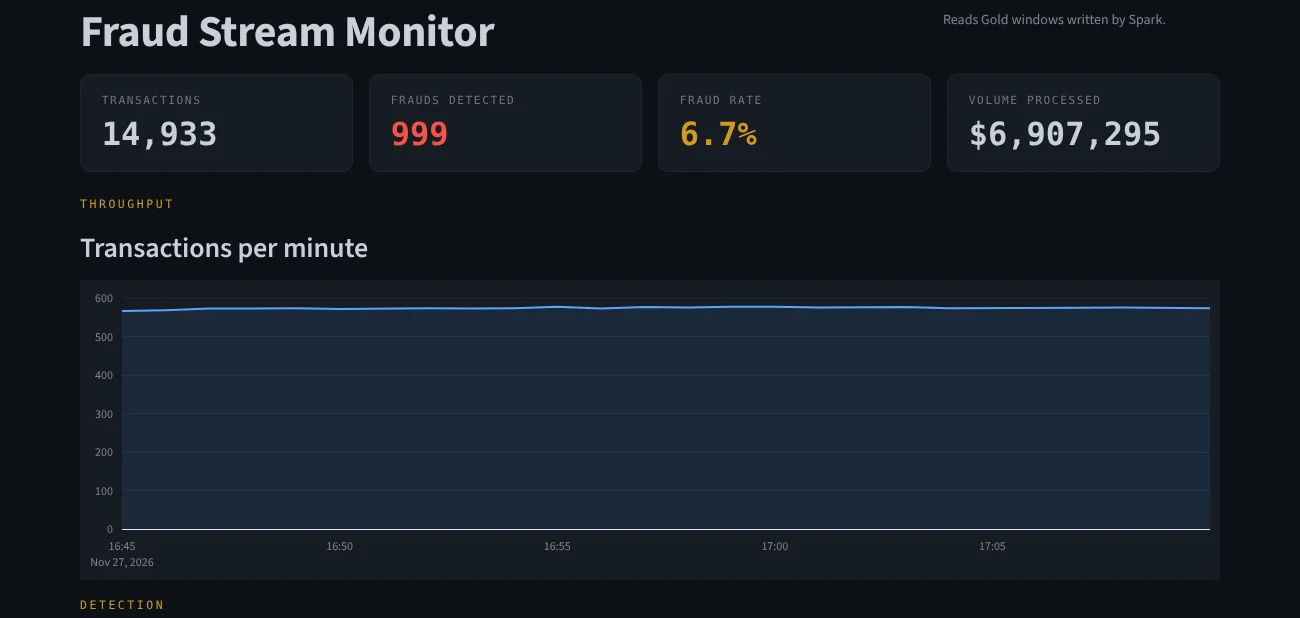
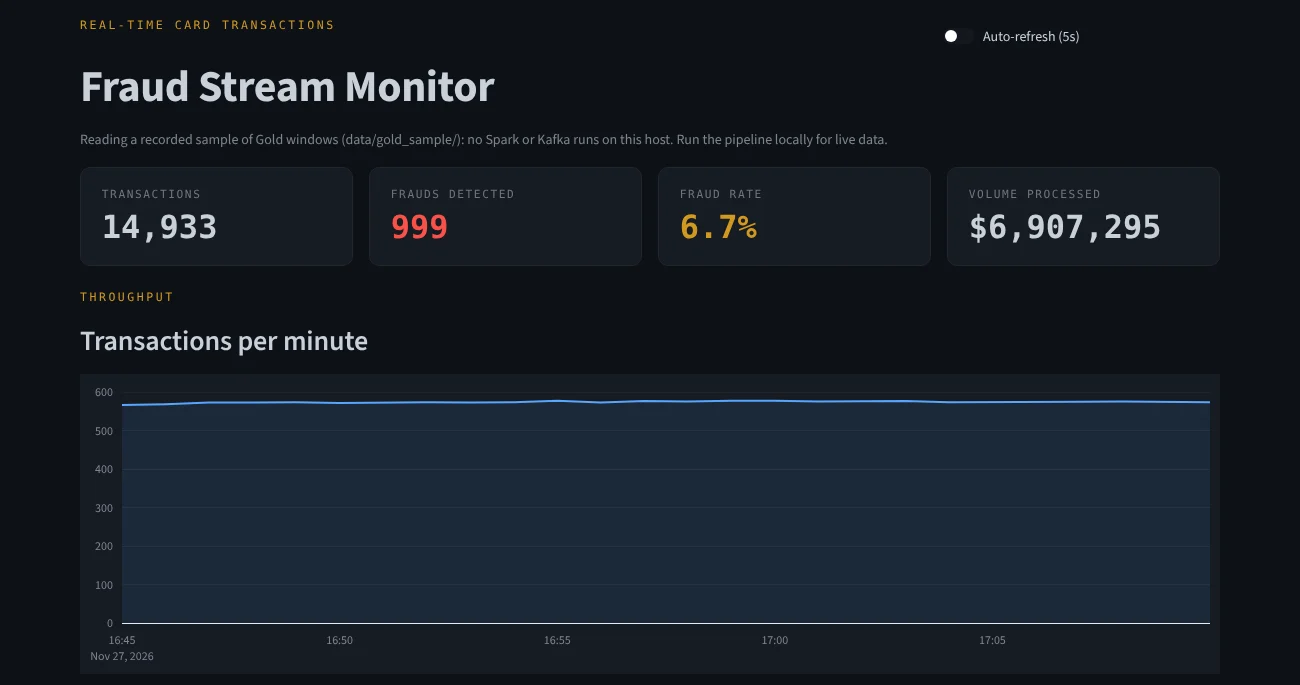
SEC MCP agent: 18 of 22 in the seventh run (was the sixth run's 17), 64 tests; streaming image with the sample caption
Claude-Session: https://claude.ai/code/session_01NPRom6U4n9MTC5L7n1c1Jp

diff --git a/projects_pt.py b/projects_pt.py
@@ -33,7 +33,7 @@ PT = {
     "sec-mcp-agent": {
         "name": "Agente MCP sobre a SEC",
         "line": "Servidores MCP sobre relatórios da SEC e um modelo de fraude, e um agente cujas citações são conferidas na fonte.",
-        "headline": ("17 de 22", "perguntas de avaliação aprovadas, partindo de 7 ao longo de seis rodadas medidas"),
+        "headline": ("18 de 22", "perguntas de avaliação aprovadas na sétima rodada medida, partindo de 7 na primeira"),
         "problem": "Respostas sobre relatórios financeiros só têm valor se cada afirmação puder ser rastreada até a fonte, "
         "e modelos pequenos inventam fontes que parecem reais. Além disso, ferramentas costumam ficar presas a um único "
         "agente, e nada mais consegue usá-las.",
@@ -42,16 +42,16 @@ PT = {
         "ser devolvida. Os mesmos servidores funcionam no Claude Desktop.",
         "how": [
             "Uma citação só passa se o trecho citado estiver no documento recuperado.",
-            "Seis rodadas de avaliação num runner de CPU, com cada falha rastreada e corrigida no agente ou nas ferramentas.",
+            "Sete rodadas de avaliação num runner de CPU, com cada falha rastreada e corrigida no agente ou nas ferramentas; a avaliação roda de novo toda semana.",
             "A ferramenta de fraude reaproveita o modelo XGBoost do projeto de fraude em tempo real, num commit fixado.",
         ],
         "results": [
-            ("17 de 22", "perguntas de avaliação aprovadas (7 na primeira rodada)"),
-            ("62", "testes, incluindo os servidores acessados pelo cliente MCP"),
-            ("6", "rodadas de avaliação medidas, com cada falha rastreada e corrigida"),
+            ("18 de 22", "perguntas de avaliação aprovadas na sétima rodada (7 na primeira)"),
+            ("64", "testes, incluindo os servidores acessados pelo cliente MCP"),
+            ("7", "rodadas de avaliação medidas, com cada falha rastreada e corrigida"),
         ],
         "limits": "Um modelo de 3B ainda erra algumas perguntas de várias etapas; o conjunto de avaliação é pequeno.",
-        "video_caption": "Duas respostas gravadas na rodada final de avaliação: as chamadas de ferramenta, a resposta e as citações verificadas.",
+        "video_caption": "Duas respostas gravadas na sexta rodada de avaliação: as chamadas de ferramenta, a resposta e as citações verificadas.",
     },
     "olist-ai-analyst": {
         "name": "Analista de dados com IA (Olist)",

diff --git a/projects.py b/projects.py
@@ -48,7 +48,7 @@ PROJECTS = [
         "group": AI,
         "name": "SEC MCP agent",
         "line": "MCP servers over SEC filings and a fraud model, and an agent whose citations are checked against the source.",
-        "headline": ("17 of 22", "evaluation questions passed, up from 7 over six measured runs"),
+        "headline": ("18 of 22", "evaluation questions passed in the seventh measured run, up from 7 in the first"),
         "problem": "Answers about filings are only useful if every claim can be traced to the source, and small "
         "models invent sources that look real. Tools are also usually wired into one agent, so nothing else "
         "can use them.",
@@ -57,18 +57,18 @@ PROJECTS = [
         "claims to quote before the answer is returned. The same servers plug into Claude Desktop.",
         "how": [
             "A citation passes only if its quote is found in the retrieved passage.",
-            "Six evaluation runs on a CPU runner, each failure traced and fixed in the agent or the tools.",
+            "Seven evaluation runs on a CPU runner, each failure traced and fixed in the agent or the tools; the evaluation reruns every week.",
             "The fraud tool reuses the XGBoost model from the real-time fraud project at a pinned commit.",
         ],
         "results": [
-            ("17 of 22", "evaluation questions passed (7 in the first run)"),
-            ("62", "tests, including the servers through the MCP client"),
-            ("6", "measured evaluation runs, each failure traced to the agent or the tools and fixed"),
+            ("18 of 22", "evaluation questions passed in the seventh run (7 in the first)"),
+            ("64", "tests, including the servers through the MCP client"),
+            ("7", "measured evaluation runs, each failure traced to the agent or the tools and fixed"),
         ],
         "limits": "A 3B model still misses some multi-step questions; the evaluation set is small.",
         "stack": ["MCP Python SDK", "Pydantic", "Ollama", "XGBoost"],
         "video": "sec-mcp-agent",
-        "video_caption": "Two answers recorded in the final evaluation run: the tool calls, the answer and its verified citations.",
+        "video_caption": "Two answers recorded in the sixth evaluation run: the tool calls, the answer and its verified citations.",
     },
     {
         "slug": "olist-ai-analyst",

diff --git a/business.py b/business.py
@@ -25,14 +25,14 @@ BUSINESS = {
             "users": "Analistas financeiros e de risco que leem relatórios 10-K.",
             "error": "Uma citação inventada leva a uma decisão baseada num fato que não existe no documento.",
             "value": "Cada citação é conferida contra o trecho original antes de a resposta sair. As ferramentas ficam em servidores MCP reutilizáveis, que qualquer agente ou o Claude Desktop pode usar.",
-            "risk": "17 de 22 perguntas certas: um modelo pequeno ainda erra perguntas de várias etapas.",
+            "risk": "18 de 22 perguntas certas na sétima rodada: um modelo pequeno ainda erra perguntas de várias etapas.",
         },
         "en": {
             "decision": "Answering questions about financial filings with sources someone can check.",
             "users": "Financial and risk analysts who read 10-K filings.",
             "error": "An invented citation leads to a decision based on a fact that is not in the document.",
             "value": "Every citation is checked against the original passage before the answer goes out. The tools live in reusable MCP servers that any agent or Claude Desktop can use.",
-            "risk": "17 of 22 questions right: a small model still misses some multi-step questions.",
+            "risk": "18 of 22 questions right in the seventh run: a small model still misses some multi-step questions.",
         },
     },
     "olist-ai-analyst": {
